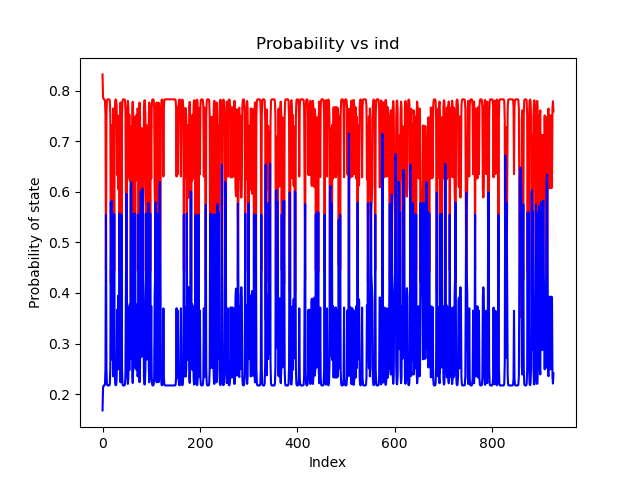
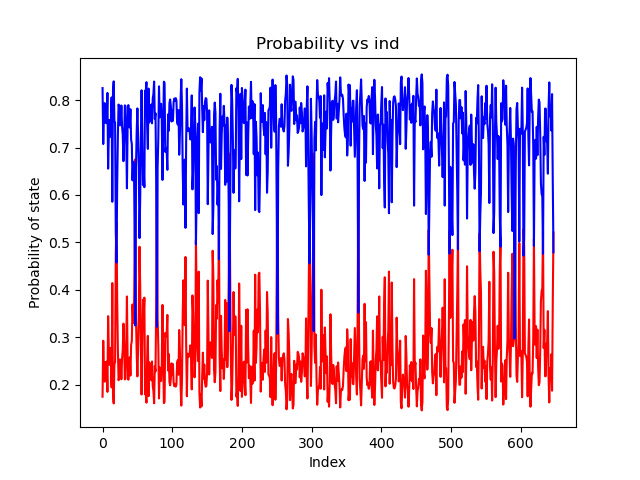
idek anymore

diff --git a/parameters.py b/parameters.py
@@ -223,17 +223,23 @@ def saveplot(probs, factor):
 
 
 def main():
+    primates = "((gorilla:0.086940, (orangutan:0.018940, (gibbon:0.022270, (green_monkey:0.027000, " \
+               "(baboon:0.008042, (rhesus:0.004991, " \
+               "macaque:0.004991):0.003000):0.019610):0.022040):0.003471):0.009693):0.000500, " \
+               "(bonobo:0.007840, (human:0.006550, chimp:0.006840):0.001220):0.000500):0.000000;"
     parser = argparse.ArgumentParser(
         description='Compute posterior probabilities at each position of a given sequence.')
     parser.add_argument('-f', action="store", dest="f", type=str, default='apoe.fa')
     # parser.add_argument('-mu', action="store", dest="mu", type=float, required=True)
-    parser.add_argument('-c', action='store', dest='c', type=str, required=True)
+    parser.add_argument('-c', action='store', dest='c', type=str, default=primates)
     parser.add_argument('-mul', action='store', dest='mul', type=float, default=2.0)
     parser.add_argument('-nc', action='store', dest='nc', type=str, default=None)
 
     args = parser.parse_args()
     data, data_len = read_data(args.f)
     cons = Node.from_str(args.c)
+    cons = cons * (0.1 / cons.tot_branch_len())
+    print(cons.tot_branch_len())
     cons.setData(data, data_len)
     if not args.nc:
         non_cons = cons * args.mul

diff --git a/test.py b/test.py
@@ -31,7 +31,13 @@ assert(round(t3.tot_prob, 2) == -283.47)
 assert(round((t3 * 1).tot_prob, 2) == -283.47)
 
 chimp_corner = "(bonobo:0.007840, (human:0.006550, chimp:0.006840):0.001220):0.00500;"
-
+primates = "((gorilla:0.086940, (orangutan:0.018940, (gibbon:0.022270, (green_monkey:0.027000, " \
+           "(baboon:0.008042, (rhesus:0.004991, " \
+           "macaque:0.004991):0.003000):0.019610):0.022040):0.003471):0.009693):0.000500, " \
+           "(bonobo:0.007840, (human:0.006550, chimp:0.006840):0.001220):0.000500):0.000000;"
+t_prim = Node.from_str(primates)
+d_prim, l_prim = read_data("Data/HI1-Compiled.txt")
+t_prim.setData(d_prim, l_prim)
 # branch_lengths = np.array(
 #     [[0.07517, 0.03059, 0.03161, 0.11761, 0.14289],
 #      [0.20843, 0.03397, 0.03497, 0.24952, 0.00000],

diff --git a/tree.py b/tree.py
@@ -205,3 +205,8 @@ class Node:
             out.setData(self.data, self.seqlen)
 
         return out
+
+    def tot_branch_len(self):
+        return self.branch_length + \
+               (self.left.branch_length if self.left else 0.0) + \
+               (self.right.branch_length if self.right else 0.0)
